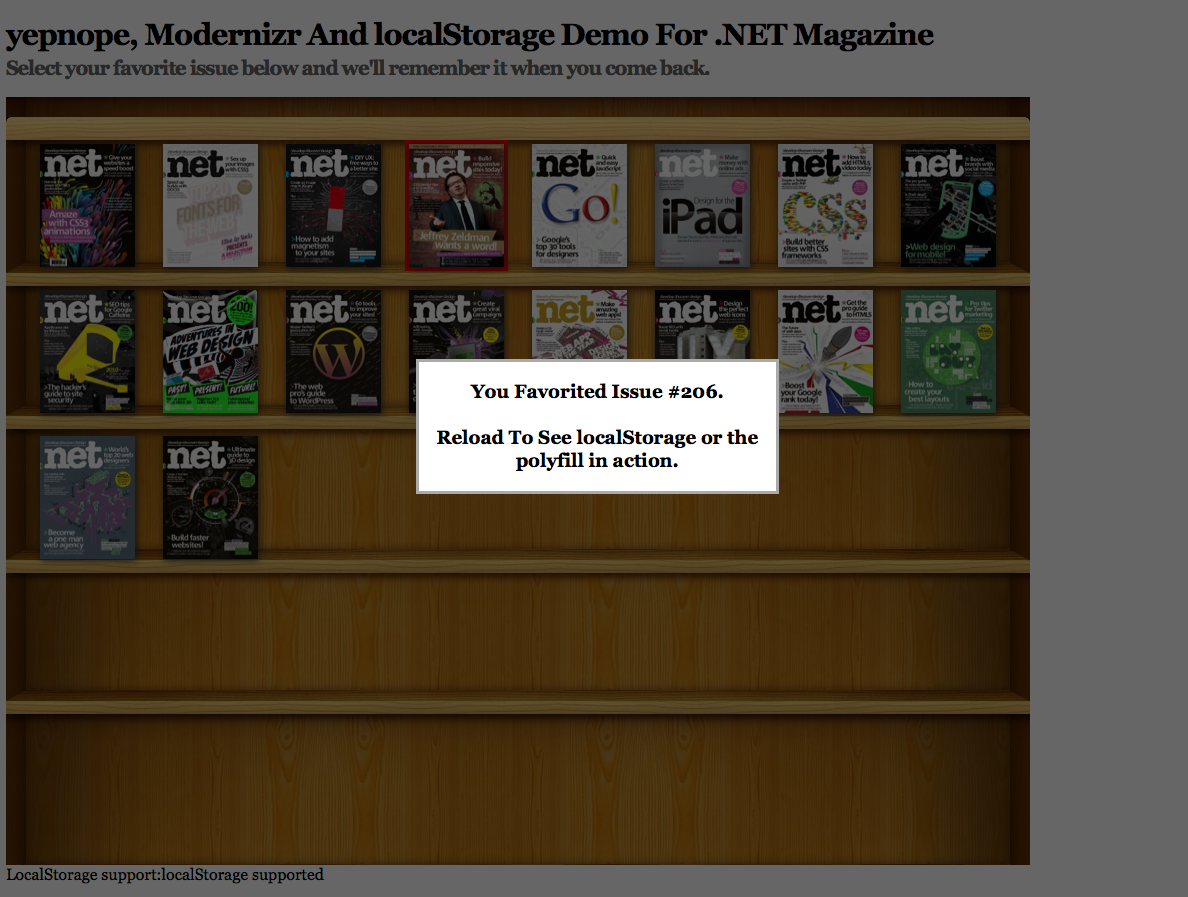
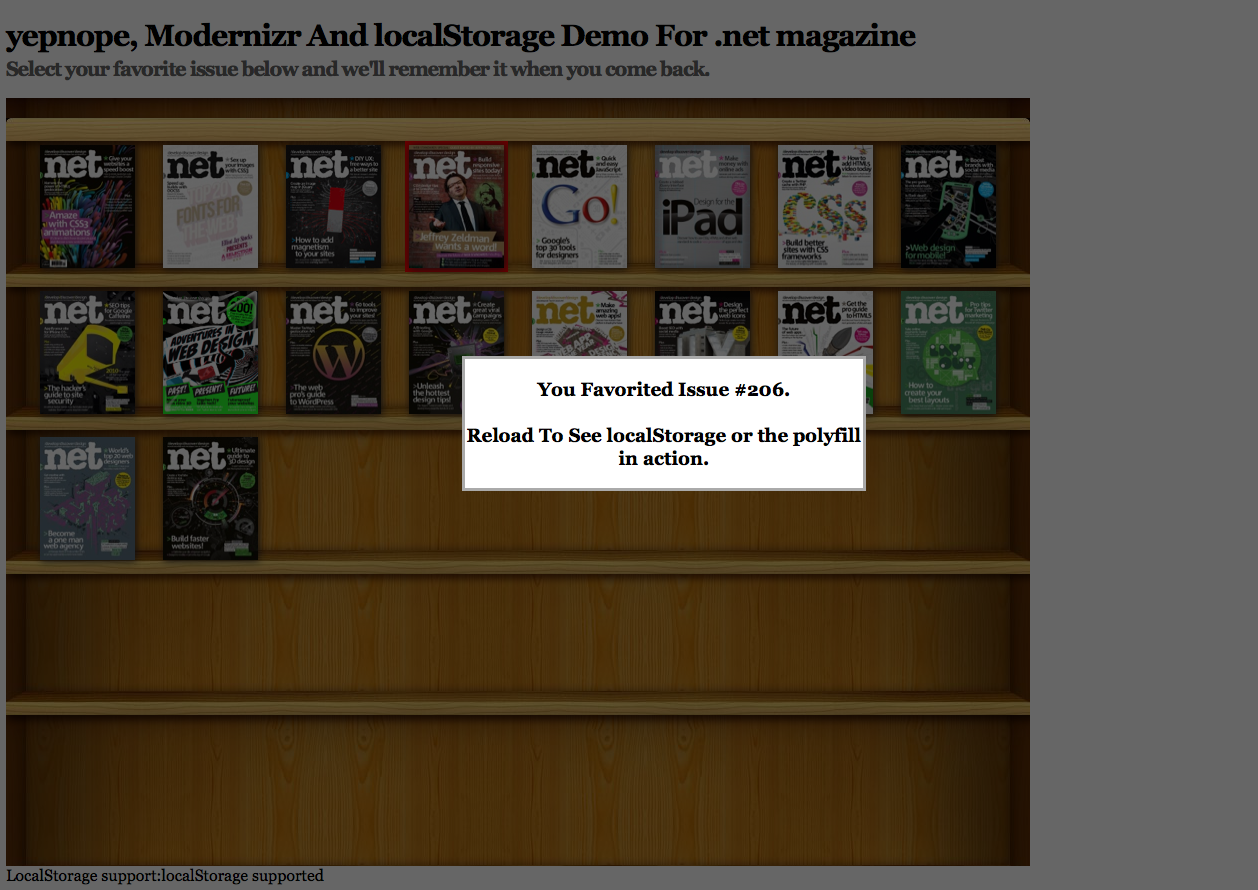
changing case as requested. switching back to other alex photo as per editor

Changed region(s): [[0.0, 0.091, 0.8721, 1.0], [0.0, 0.0, 0.7786, 0.091]]

diff --git a/yepnope/index.html b/yepnope/index.html
@@ -47,7 +47,7 @@ yepnope([
 <!-- Body Markup -->
 <body>
 
-<h1>yepnope, Modernizr And localStorage Demo For .NET Magazine</h1>
+<h1>yepnope, Modernizr And localStorage Demo For .net magazine</h1>
 <h2>Select your favorite issue below and we'll remember it when you come back.</h2>
 
 
